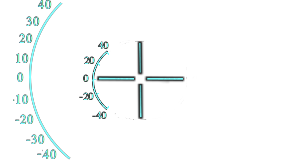
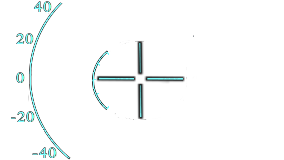
Eden changes, road in light of sight

diff --git a/common/gui.c b/common/gui.c
@@ -24,6 +24,10 @@ int RPM = 0;
 ///Eden's Block
 
 Point scrP(0,0);
+Point scrPLeft1(0,0);
+Point scrPRight1(0,0);
+Point scrPLeft2(0,0);
+Point scrPRight2(0,0);
 Point scrOrigin(SCREEN_WIDTH/2,SCREEN_HEIGHT/2);
 
 VnVector3 sensorVel;
@@ -97,6 +101,7 @@ LTexture gGPSSignalTexture;
 LTexture gCarMapMarkTexture;
 LTexture gBlueToothTexture;
 LTexture gpsNOSIgnalTexture;
+LTexture gArtHorzNeedleTexture;
 
 //Artificial Horizon
 LTexture gArtHorzTexture;
@@ -177,7 +182,7 @@ bool loadMedia()
 		gGearGradient[3].loadFromFile( PROJ_HOME "/resources/gearFinal4.png" ) 		&&
 		gGearGradient[4].loadFromFile( PROJ_HOME "/resources/gearFinal5.png" ) 		&&
 		gGearGradient[5].loadFromFile( PROJ_HOME "/resources/gearFinal6.png" ) 		&&
-		gVelocityGradient.loadFromFile( PROJ_HOME "/resources/velocityGradient.png" ) &&
+		gVelocityGradient.loadFromFile( PROJ_HOME "/resources/velocityGradientWithNum.png" ) &&
 		gNeedleTexture.loadFromFile( PROJ_HOME "/resources/needle-fioptics2_trial.png" ) 	&&
 		gArtHorzTexture.loadFromFile( PROJ_HOME "/resources/artHorz.png" ) 		&&
 		gTextVelocity.loadFromRenderedText( "Tadaa", VEL_FONT_COLOR,gDigitalFont )	&&
@@ -187,7 +192,8 @@ bool loadMedia()
 		gCarMapMarkTexture.loadFromFile( PROJ_HOME "/resources/map_marker.png" ) &&
 		gBlueToothTexture.loadFromFile( PROJ_HOME "/resources/btLogo2.png" ) &&
 		gpsNOSIgnalTexture.loadFromFile( PROJ_HOME "/resources/gpsNOSIgnal.png" ) &&
-		gGPSSignalTexture.loadFromFile( PROJ_HOME "/resources/gpstracksicon.png" );
+		gGPSSignalTexture.loadFromFile( PROJ_HOME "/resources/gpstracksicon.png" ) &&
+        gArtHorzNeedleTexture.loadFromFile( PROJ_HOME "/resources/artHorzNeedle.png" );
 }
 
 
@@ -220,6 +226,7 @@ void close()
 	gCarMapMarkTexture.free();
 	gBlueToothTexture.free();
 	gpsNOSIgnalTexture.free();
+    gArtHorzNeedleTexture.free();
 
 	//Free global font
 	TTF_CloseFont( gFont );
@@ -296,7 +303,7 @@ void* gui_main(void* arg)
                     newLon += sensorData.latitudeLongitudeAltitude.c1;
                     newAlt += sensorData.latitudeLongitudeAltitude.c2;
                     yaw += sensorData.ypr.yaw;
-                    roll += sensorData.ypr.roll;
+                    roll += sensoPoint scrP(0,0);rData.ypr.roll;
                     pitch += sensorData.ypr.pitch;
                 }
                 newLat = newLat/LEN_FILTER;
@@ -347,7 +354,7 @@ void* gui_main(void* arg)
                     sensorVel.c1 = 0;
                     }
                     sensorVel.c2 = 0;
-                    //printf("1newLat,newLon = (%f,%f)\n",newLat,newLon);
+                    //printf("1nePoint scrP(0,0);wLat,newLon = (%f,%f)\n",newLat,newLon);
                 }
                 else if(counter<=200){
                     newLat = 35 + 0.001*cos(PI-PI/50*counter)+0.002;
@@ -390,23 +397,28 @@ void* gui_main(void* arg)
 
 				//Render current frame
 				//pngs
-				gGearGradient[(RPMint*6)/MAX_RPM].renderRelToScrn(RELATIVE_PLACE_RPM_X, RELATIVE_PLACE_RPM_Y );
+				gGearGradient[(RPMint*6)/MAX_RPM].renderRelToScrn(RELATIVE_PLACE_RPM_X+0.5, RELATIVE_PLACE_RPM_Y );
 				gArtHorzTexture.renderRelToScrn(RELATIVE_PLACE_ARTHORZ_X - 0.002 + 0.002, RELATIVE_PLACE_ARTHORZ_Y + 0.001 + 0.003 , 0.0 - horDeg);
 				gCarCrossTexture.renderRelToScrn(RELATIVE_PLACE_ARTHORZ_X + 0.002, RELATIVE_PLACE_ARTHORZ_Y + 0.003 , 0.0);
-				gVelocityGradient.renderRelToScrn(RELATIVE_PLACE_VELOCITY_G_X, RELATIVE_PLACE_VELOCITY_G_Y);
-				gNeedleTexture.renderRelToScrnRel2Object(RELATIVE_PLACE_SPEEDOMETER_X, RELATIVE_PLACE_SPEEDOMETER_Y, gVelocityGradient, -50.0+degrees);
+				gVelocityGradient.renderRelToScrn(RELATIVE_PLACE_VELOCITY_G_X+0.45, RELATIVE_PLACE_VELOCITY_G_Y);
+				gNeedleTexture.renderRelToScrnRel2Object(RELATIVE_PLACE_SPEEDOMETER_X+0.45, RELATIVE_PLACE_SPEEDOMETER_Y, gVelocityGradient, -50.0+degrees);
 				gCarArrowTexture.renderRelToScrn(RELATIVE_PLACE_ARROW_X + 0.487,RELATIVE_PLACE_ARROW_Y - 0.985);
-				gCarMapMarkTexture.renderRelToScrn(RELATIVE_PLACE_ARROW_X + 0.482,RELATIVE_PLACE_ARROW_Y - 1.045);
+				if(mapPts_Prev.size()>1){
+					gCarMapMarkTexture.renderRelToScrn(((double)mapPts_Prev[0].X)/SCREEN_WIDTH - 0.005 ,((double)mapPts_Prev[0].Y)/SCREEN_HEIGHT - 0.025);
+					}
+				else if(mapPts.size()>1){
+					gCarMapMarkTexture.renderRelToScrn(((double)mapPts[0].X)/SCREEN_WIDTH - 0.005,((double)mapPts[0].Y)/SCREEN_HEIGHT - 0.025);
+					}
 				if(newLat == 0 && newLon == 0 && newAlt == 0)
                     gpsNOSIgnalTexture.renderRelToScrn(0.9,0.05);
                 else
                     gGPSSignalTexture.renderRelToScrn(0.9,0.05);
 				gBlueToothTexture.renderRelToScrn(0.965,0.065);
-
+                gArtHorzNeedleTexture.renderRelToScrn(RELATIVE_PLACE_ARTHORZ_X + 0.002, RELATIVE_PLACE_ARTHORZ_Y + 0.003 , 0.0 - horDeg);
 				//txts
 				reloadText();
-				gTextGear.renderTXTRelToScrn(RELATIVE_PLACE_FONT_GEAR_X, RELATIVE_PLACE_FONT_GEAR_Y);
-				gTextVelocity.renderTXTRelToScrn(RELATIVE_PLACE_FONT_VELOCITY_X, RELATIVE_PLACE_FONT_VELOCITY_Y);
+				gTextGear.renderTXTRelToScrn(RELATIVE_PLACE_FONT_GEAR_X-0.8, RELATIVE_PLACE_FONT_GEAR_Y);
+				gTextVelocity.renderTXTRelToScrn(RELATIVE_PLACE_FONT_VELOCITY_X+0.33, RELATIVE_PLACE_FONT_VELOCITY_Y);
 
 /********************Eden's block************************/
                 //printf("test1\n");
@@ -545,9 +557,47 @@ void* gui_main(void* arg)
                   //  utils.renderTrail2scr(vecLatitude[vecLatitude.size()-1],vecLongitude[vecLongitude.size()-1],vecAltitude[vecAltitude.size()-1] ,vecLatitude_Prev,vecLongitude_Prev,vecAltitude_Prev,sensorData.ypr.yaw, sensorData.ypr.pitch, sensorData.ypr.roll,scrPts);
 
 
-                utils.coordinate2Scr(32.0 ,35.0 ,0.0 ,32.001 ,35.001 ,0.0 ,pitch ,yaw ,roll ,scrP);
-                thickLineRGBA(gRenderer ,scrP.X ,scrP.Y ,scrP.X ,scrP.Y, 2*LINE_THICKNESS ,50,200,255,255);
+                utils.coordinate2Scr(32.0 ,35.0 ,1.0 ,32.0 ,35.0001 ,0.0 ,pitch ,yaw ,roll ,scrP);
+                //thickLineRGBA(gRenderer ,scrP.X + 20 ,scrP.Y ,scrP.X + 20 ,scrP.Y, 2*LINE_THICKNESS ,50,200,255,255);
+                thickLineRGBA(gRenderer ,scrP.X ,scrP.Y ,scrP.X ,scrP.Y, 2*LINE_THICKNESS ,200,200,255,255);
+                //thickLineRGBA(gRenderer ,scrP.X - 20 ,scrP.Y ,scrP.X - 20,scrP.Y, 2*LINE_THICKNESS ,50,200,255,255);
 
+                utils.sideLines2Scrn(pitch,yaw,roll,32.0,35.0,1.0,32.0,35.0001,0.0,32.0,35.0002,0.0,scrPLeft1,scrPRight1,scrPLeft2,scrPRight2);
+
+                thickLineRGBA(gRenderer ,scrPLeft1.X ,scrPLeft1.Y ,scrPLeft2.X ,scrPLeft2.Y, LINE_THICKNESS ,100,100,100,200);
+                thickLineRGBA(gRenderer ,scrPLeft1.X ,scrPLeft1.Y ,scrPLeft1.X ,scrPLeft1.Y, LINE_THICKNESS ,100,200,200,200);
+                thickLineRGBA(gRenderer ,scrPRight1.X ,scrPRight1.Y ,scrPRight2.X ,scrPRight2.Y, LINE_THICKNESS ,100,100,100,200);
+                thickLineRGBA(gRenderer ,scrPRight1.X ,scrPRight1.Y ,scrPRight1.X ,scrPRight1.Y, LINE_THICKNESS ,100,200,200,200);
+
+
+                utils.coordinate2Scr(32.0 ,35.0 ,1.0 ,32.0 ,35.0002 ,0.0 ,pitch ,yaw ,roll ,scrP);
+                //thickLineRGBA(gRenderer ,scrP.X + 20 ,scrP.Y ,scrP.X + 20 ,scrP.Y, 2*LINE_THICKNESS ,50,200,255,255);
+                thickLineRGBA(gRenderer ,scrP.X ,scrP.Y ,scrP.X ,scrP.Y, 2*LINE_THICKNESS ,200,200,255,255);
+
+                utils.sideLines2Scrn(pitch,yaw,roll,32.0,35.0,1.0,32.0,35.0002,0.0,32.0,35.0004,0.0,scrPLeft1,scrPRight1,scrPLeft2,scrPRight2);
+
+                thickLineRGBA(gRenderer ,scrPLeft1.X ,scrPLeft1.Y ,scrPLeft2.X ,scrPLeft2.Y, LINE_THICKNESS ,100,100,100,200);
+                thickLineRGBA(gRenderer ,scrPLeft1.X ,scrPLeft1.Y ,scrPLeft1.X ,scrPLeft1.Y, LINE_THICKNESS ,100,200,200,200);
+                thickLineRGBA(gRenderer ,scrPRight1.X ,scrPRight1.Y ,scrPRight2.X ,scrPRight2.Y, LINE_THICKNESS ,100,100,100,200);
+                thickLineRGBA(gRenderer ,scrPRight1.X ,scrPRight1.Y ,scrPRight1.X ,scrPRight1.Y, LINE_THICKNESS ,100,200,200,200);
+
+
+                utils.coordinate2Scr(32.0 ,35.0 ,1.0 ,32.0 ,35.0004 ,0.0 ,pitch ,yaw ,roll ,scrP);
+
+                utils.sideLines2Scrn(pitch,yaw,roll,32.0,35.0,1.0,32.0,35.0004,0.0,32.0001,35.0005,0.0,scrPLeft1,scrPRight1,scrPLeft2,scrPRight2);
+
+                thickLineRGBA(gRenderer ,scrPLeft1.X ,scrPLeft1.Y ,scrPLeft2.X ,scrPLeft2.Y, LINE_THICKNESS ,100,100,100,250);
+                thickLineRGBA(gRenderer ,scrPLeft1.X ,scrPLeft1.Y ,scrPLeft1.X ,scrPLeft1.Y, LINE_THICKNESS ,100,200,200,200);
+                thickLineRGBA(gRenderer ,scrPRight1.X ,scrPRight1.Y ,scrPRight2.X ,scrPRight2.Y, LINE_THICKNESS ,100,100,100,250);
+                thickLineRGBA(gRenderer ,scrPRight1.X ,scrPRight1.Y ,scrPRight1.X ,scrPRight1.Y, LINE_THICKNESS ,100,200,200,200);
+
+                thickLineRGBA(gRenderer ,scrPLeft2.X ,scrPLeft2.Y ,scrPLeft2.X ,scrPLeft2.Y, LINE_THICKNESS ,100,200,200,200);
+                thickLineRGBA(gRenderer ,scrPRight2.X ,scrPRight2.Y ,scrPRight2.X ,scrPRight2.Y, LINE_THICKNESS ,100,200,200,200);
+
+                utils.coordinate2Scr(32.0 ,35.0 ,1.0 ,32.0 ,35.0004 ,0.0 ,pitch ,yaw ,roll ,scrP);
+                //utils.coordinate2Scr(32.0 ,35.0 ,1.0 ,32.0001 ,35.0005 ,0.0 ,pitch ,yaw ,roll ,scrP);
+                //thickLineRGBA(gRenderer ,scrP.X + 20 ,scrP.Y ,scrP.X + 20 ,scrP.Y, 2*LINE_THICKNESS ,50,200,255,255);
+                thickLineRGBA(gRenderer ,scrP.X ,scrP.Y ,scrP.X ,scrP.Y, 2*LINE_THICKNESS ,200,200,255,255);
 /*************************************************************************/
 				SDL_RenderPresent( gRenderer );
 			}

diff --git a/common/guiUtils.c b/common/guiUtils.c
@@ -563,34 +563,132 @@ void guiUtils::renderTrail2scr(double lat0,double lon0,double alt0 ,std::vector<
 void guiUtils::getPitchYawFromVec(std::vector<double>& vec, double& pitch,double& yaw)
 {
     yaw = atan2(vec[0],-vec[1]);
-    pitch = -atan2(sqrt(vec[0]*vec[0]+vec[1]*vec[1]),vec[2]);
+    pitch = -atan2(vec[2],sqrt(vec[0]*vec[0]+vec[1]*vec[1]));
 }
 
 bool guiUtils::coordinate2Scr(double lat0,double lon0,double alt0,double latP,double lonP,double altP,double pitch,double yaw,double roll,Point& scrP)
 {
+    std::vector<double> delR;
+
+    if(!coordinate2RelSpace(lat0,lon0,alt0,latP,lonP,altP,delR)){return false;}
+    if(!relSpace2Scrn(delR,pitch,yaw,roll,scrP)){return false;}
+    //printf("test coordinate2Scrn\n");
+    printf("scrP = (%d,%d)\n",scrP.X,scrP.Y);
+
+    return true;
+}
+
+bool guiUtils::coordinate2RelSpace(double lat0,double lon0,double alt0,double latP,double lonP,double altP,std::vector<double>& delR)
+{
     Coordinate R0(0,0);
     Coordinate RP(0,0);
-    Point origin(SCREEN_WIDTH/2,SCREEN_HEIGHT/2);
-    double Rpitch;
-    double Ryaw;
-    std::vector<double> delR;
+
     gps2linDist(R0,lat0,lon0);
     gps2linDist(RP,latP,lonP);
     delR.push_back(RP.X-R0.X);
     delR.push_back(RP.Y-R0.Y);
     delR.push_back(altP-alt0);
-    if(sqrt(delR[0]*delR[0]+delR[1]*delR[1]+delR[2]*delR[2])==0) {return false;}
-    getPitchYawFromVec(delR,Rpitch,Ryaw);
-    scrP.Y = SCREEN_WIDTH/2 + EYE_RELEIF/PHYSICAL_PIXEL_SIZE*tan(Rpitch - PI/180*pitch);
-    scrP.X = SCREEN_HEIGHT/2 - EYE_RELEIF/PHYSICAL_PIXEL_SIZE*tan(Ryaw - PI/180*yaw);
-    rotatePoint(scrP,scrP,origin,-roll);
 
-    printf("R0 = (%f,%f,%f)    RP = (%f,%f,%f)    delR = (%f,%f,%f)\nRpitch = %f     Ryaw = %f \nscrP = (%d,%d) \n",R0.X,R0.Y,alt0 , RP.X,RP.Y,altP , delR[0],delR[1],delR[2] , Rpitch , Ryaw , scrP.X,scrP.Y);
-    //Special cases: delR=0 or point not on screen
+    if(sqrt(delR[0]*delR[0]+delR[1]*delR[1]+delR[2]*delR[2])==0) {return false;}
     return true;
 }
 
-///
+bool guiUtils::onScrn(double pitch,double yaw)
+{
+    int pitchInt;
+    int yawInt;
+
+    pitchInt = (int)pitch;
+
+    double resPitch = pitch - (double)pitchInt;
+
+    pitchInt = pitchInt%180;
+
+    pitch = (double)pitchInt + resPitch;
 
 
+    yawInt = (int)yaw;
+
+    double resYaw = yaw - (double)yawInt;
+
+    yawInt = yawInt%360;
+
+    yaw = (double)yawInt + resYaw;
+
+
+    printf("th pitch = %f pitch = %f\n",180*atan(PHYSICAL_SCREEN_HEIGHT/2/EYE_RELEIF),pitch);
+    printf("th yaw = %f yaw = %f\n",180*atan(0.5),yaw);
+    if(abs(pitch) > 180/PI*atan(PHYSICAL_SCREEN_HEIGHT/2/EYE_RELEIF) || abs(yaw) > 180/PI*atan(0.5))
+    {
+        return false;
+    }
+    printf("test onScrn == true\n");
+    return true;
+}
+
+bool guiUtils::relSpace2Scrn(std::vector<double>& delR,double pitch,double yaw,double roll,Point& scrP)
+{
+    double Rpitch;
+    double Ryaw;
+    Point origin(SCREEN_WIDTH/2,SCREEN_HEIGHT/2);
+
+    getPitchYawFromVec(delR,Rpitch,Ryaw);
+    //if(!onScrn(180*Rpitch-pitch,180*Ryaw-yaw)){return false;}
+
+    scrP.Y = SCREEN_HEIGHT/2 + EYE_RELEIF/PHYSICAL_PIXEL_SIZE*tan(Rpitch + PI/180*pitch);
+    scrP.X = SCREEN_WIDTH/2 + EYE_RELEIF/PHYSICAL_PIXEL_SIZE*tan(Ryaw - PI/180*yaw);
+    rotatePoint(scrP,scrP,origin,90+roll);
+    return true;
+}
+
+bool guiUtils::sideLines2Scrn(double pitch,double yaw,double roll,double lat0,double lon0,double alt0,double latP1,double lonP1,double altP1,double latP2,double lonP2,double altP2,Point& scrPLeft1, Point& scrPRight1,Point& scrPLeft2, Point& scrPRight2)
+{
+    std::vector<double> delR1;
+    std::vector<double> delR2;
+    std::vector<double> e12;
+    std::vector<double> o12;
+
+    std::vector<double> delR1_Left;
+    std::vector<double> delR1_Right;
+    std::vector<double> delR2_Left;
+    std::vector<double> delR2_Right;
+
+    if(!coordinate2RelSpace(lat0,lon0,alt0,latP1,lonP1,altP1,delR1)){return false;}
+    if(!coordinate2RelSpace(lat0,lon0,alt0,latP2,lonP2,altP2,delR2)){return false;}
+
+    e12.push_back(delR2[0] - delR1[0]);
+    e12.push_back(delR2[1] - delR1[1]);
+
+    e12[0] = e12[0]/sqrt(e12[0]*e12[0] + e12[1]*e12[1]);
+    e12[1] = e12[1]/sqrt(e12[0]*e12[0] + e12[1]*e12[1]);
+
+    o12.push_back(e12[0]*ROAD_WIDTH);
+    o12.push_back(-e12[1]*ROAD_WIDTH);
+
+    delR1_Left.push_back(delR1[0] + o12[0]);
+    delR1_Left.push_back(delR1[1] + o12[1]);
+    delR1_Left.push_back(delR1[2]);
+
+    delR1_Right.push_back(delR1[0] - o12[0]);
+    delR1_Right.push_back(delR1[1] - o12[1]);
+    delR1_Right.push_back(delR1[2]);
+
+    delR2_Left.push_back(delR2[0] + o12[0]);
+    delR2_Left.push_back(delR2[1] + o12[1]);
+    delR2_Left.push_back(delR2[2]);
+
+    delR2_Right.push_back(delR2[0] - o12[0]);
+    delR2_Right.push_back(delR2[1] - o12[1]);
+    delR2_Right.push_back(delR2[2]);
+
+    if(!relSpace2Scrn(delR1_Left,pitch,yaw,roll,scrPLeft1)){return false;}
+    if(!relSpace2Scrn(delR1_Right,pitch,yaw,roll,scrPRight1)){return false;}
+    if(!relSpace2Scrn(delR2_Left,pitch,yaw,roll,scrPLeft2)){return false;}
+    if(!relSpace2Scrn(delR2_Right,pitch,yaw,roll,scrPRight2)){return false;}
+
+    printf("scrPLeft1 = (%d,%d) scrPRight1 = (%d,%d)\n",scrPLeft1.X,scrPLeft1.Y,scrPRight1.X,scrPRight1.Y);
+    printf("scrPLeft2 = (%d,%d) scrPRight2 = (%d,%d)\n",scrPLeft2.X,scrPLeft2.Y,scrPRight2.X,scrPRight2.Y);
+
+    return true;
+}
 

diff --git a/inc/gui.h b/inc/gui.h
@@ -75,6 +75,7 @@
 #define PHYSICAL_SCREEN_HEIGHT 10.125 //mm
 #define PHYSICAL_PIXEL_SIZE 0.0140625//mm
 #define EYE_RELEIF 18 //mm
+#define ROAD_WIDTH 1
 
 //
 #define MAX_SPEED 200
@@ -163,7 +164,10 @@ public:
     bool isInScr(Point P);
     void getPitchYawFromVec(std::vector<double>& vec, double& pitch,double& yaw);
     bool coordinate2Scr(double lat0,double lon0,double alt0,double latP,double lonP,double altP,double pitch,double yaw,double roll,Point& scrP);
-
+    bool coordinate2RelSpace(double lat0,double lon0,double alt0,double latP,double lonP,double altP,std::vector<double>& delR);
+    bool onScrn(double pitch,double yaw);
+    bool relSpace2Scrn(std::vector<double>& delR,double pitch,double yaw,double roll,Point& scrP);
+    bool sideLines2Scrn(double pitch,double yaw,double roll,double lat0,double lon0,double alt0,double latP1,double lonP1,double altP1,double latP2,double lonP2,double altP2,Point& scrPLeft1, Point& scrPRight1,Point& scrPLeft2, Point& scrPRight2);
 
 };
 
